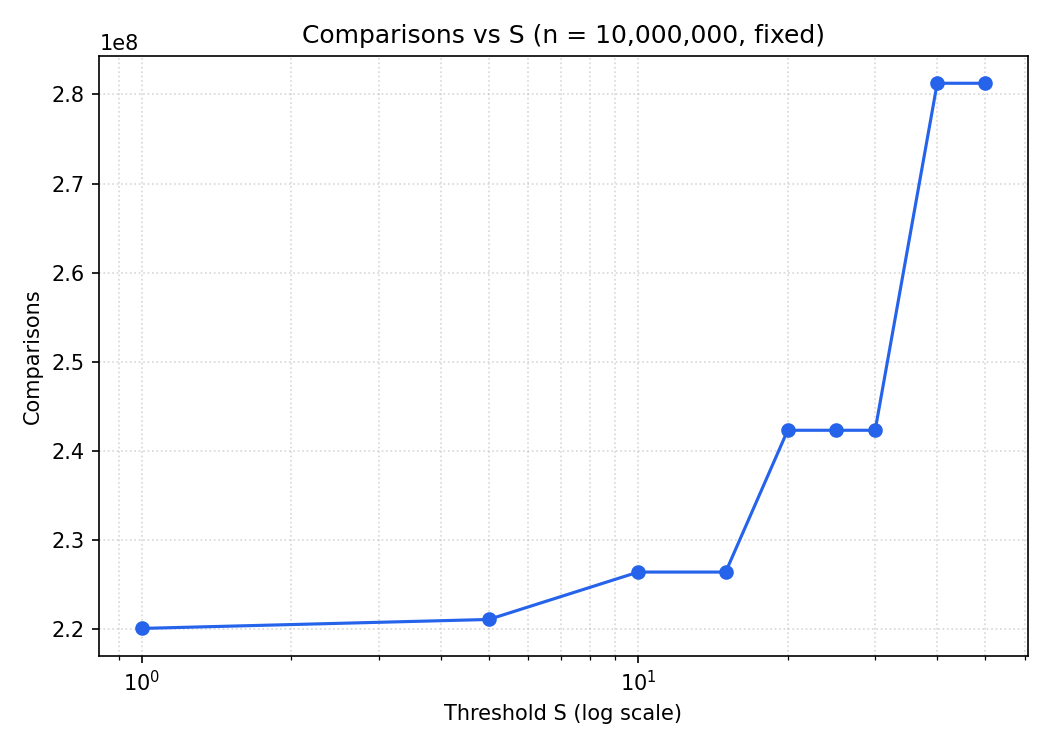
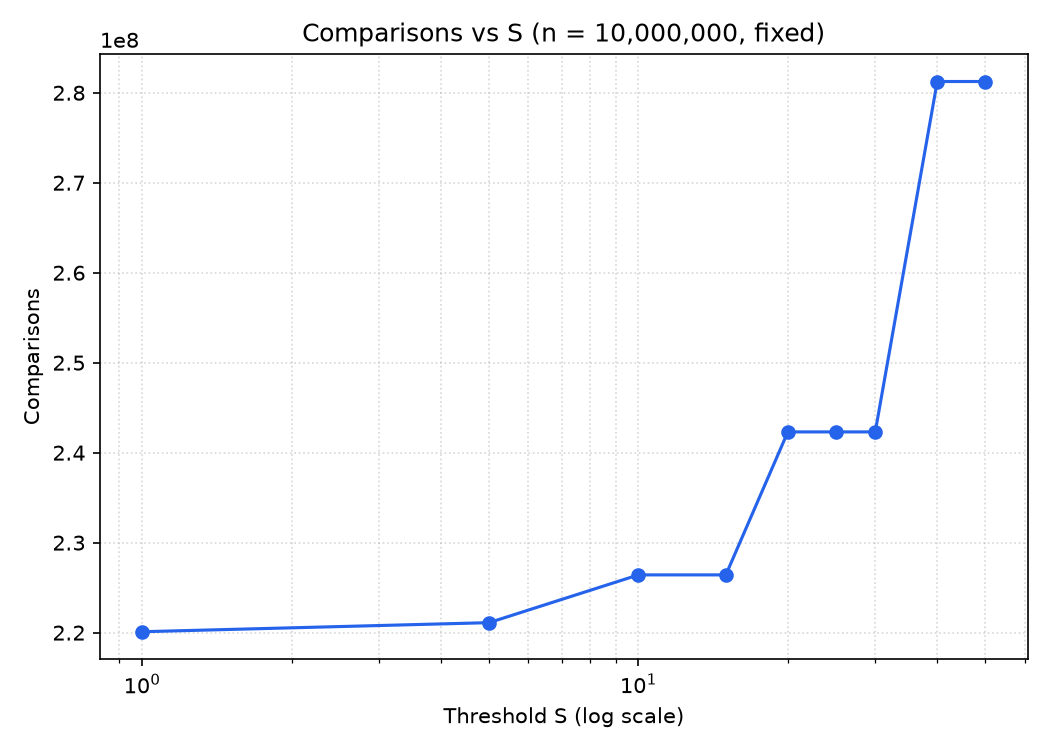
Final commits for slides consistency

diff --git a/hybrid_sort.py b/hybrid_sort.py
@@ -1,12 +1,12 @@
 #complexity writeup
 '''
 Insertion sort time complexity: it happens on n/s arrays of size s. Worst case complexity is O(s^2) for each.
-So, time complexity for insertion sort part: O((n/s) * s^2) = O(ns) = O(n).
+So, time complexity for insertion sort part: O((n/s) * s^2) = O(ns)
 
 Merge sort time complexity: recursion depth = log(n/s), time complexity of merge = O(n).
-So time complexity for merge sort part = O(nlog(n/s)) = O(nlogn)
+So time complexity for merge sort part = O(nlog(n/s))
 
-Hybrid time complexity: O(nlog(n/s) + ns) = O(nlogn)
+Hybrid time complexity: O(nlog(n/s) + ns) = O(nlogn) for fixed S. 
 
 Smaller s => merge dominates
 Larger s => insertion sort comparisons/swaps dominate

diff --git a/plot_c2_10M.py b/plot_c2_10M.py
@@ -33,7 +33,7 @@ best_s, best_t = s_values[best_idx], times[best_idx]
 fig, ax = plt.subplots(figsize=(7, 5))
 ax.plot(s_values, times, marker="o", color="#2563eb")
 ax.scatter([best_s], [best_t], color="#dc2626", zorder=5, s=80,
-           label=f"Fastest: S={best_s} ({best_t:.4f}s)")
+           label=f"Fastest: S={best_s}")
 ax.set_xscale("log")
 ax.set_xlabel("Threshold S (log scale)")
 ax.set_ylabel("CPU time (s)")

diff --git a/experiment_c2_10M.py b/experiment_c2_10M.py
@@ -28,7 +28,7 @@ def main():
     w = csv.writer(f)
     if new_file:
         w.writerow(["n", "S", "comparisons", "cpu_time_s"])
-    arr = generate_dataset(N_FIXED, seed=2024)
+    arr = generate_dataset(N_FIXED, seed=42)
     for s in s_values:
         c, t = timed_hybrid(arr, s)
         w.writerow([N_FIXED, s, c, f"{t:.6f}"])
